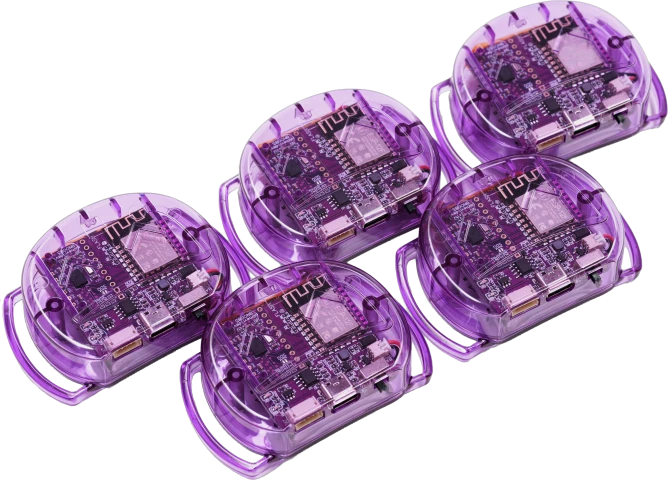
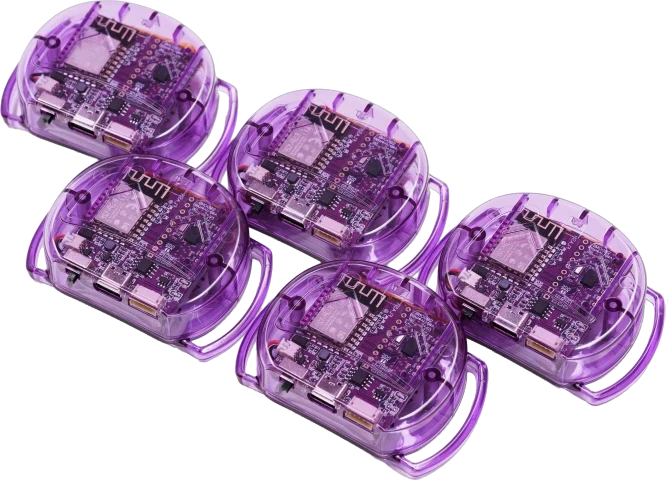
feat: revised design
thanks spazz - we dont talk about mobile still though

diff --git a/src/routes/index.tsx b/src/routes/index.tsx
@@ -17,6 +17,7 @@ import { DonwloadIcon } from "~/components/commons/icons/DownloadIcon";
 import { Typography } from "~/components/commons/Typography";
 import { DownloadSection } from "~/components/home/DownloadSection";
 import { QASection } from "~/components/home/QASection";
+import { TrackersSection } from "~/components/home/TrackersSection";
 import { VideoSection } from "~/components/home/VideoSection";
 import { Section } from "~/components/Section";
 import { MainLayout } from "~/layouts/MainLayout";
@@ -102,88 +103,132 @@ export default function HomePage(props: ParentProps) {
       />
       <Section>
         <div class="flex flex-col h-150 sm:h-220 justify-between items-center my-8 relative">
-          <Typography
-            variant="main-title"
-            tag="h1"
-            key="home.hero.description"
-            textAlign="text-center"
-            class="2xl:max-w-[90%]"
-          />
-
-          {/* <Section>
-            <TrackersSection></TrackersSection>
-          </Section> */}
-
-          <div class="flex flex-col justify-between items-center">
-            {/* sidebar */}
-            <div class="hidden sm:flex flex-col gap-4 absolute left-6 top-1/2 -translate-y-1/2 z-20">
-              <div
-                role="button"
-                tabIndex={0}
-                class="flex flex-col items-center gap-2 cursor-pointer select-none p-4 bg-background-60/80 border border-background-30 rounded-lg hover:scale-105 transition-transform"
-                onClick={() => {
-                  setTracker("og");
-                }}
+          {/* grids-col-3 instead */}
+          {/* <div class="flex flex-row justify-between items-center w-full gap-4 "> */}
+          <div class="grid md:grid-cols-3 grid-cols-1 w-full gap-4">
+            <div class="group rounded-2xl flex flex-col overflow-clip items-center gap-2 sm:gap-4 justify-between bg-background-60/40 border backdrop-blur-[9px] border-background-30/80">
+              <A
+                class="px-12 pt-8 flex flex-col items-center w-full"
+                href="https://www.crowdsupply.com/slimevr/slimevr-butterfly-trackers"
               >
-                <img
-                  src="/images/og_slime.webp"
-                  loading="lazy"
-                  class="w-24 h-24 object-contain"
-                  alt="OG Slime"
-                />
-                <Typography key="home.hero.og-slime" tag="p"></Typography>
-                <Typography key="home.hero.price" tag="p"></Typography>
-              </div>
-
-              <div
-                role="button"
-                tabIndex={0}
-                class="flex flex-col items-center gap-2 cursor-pointer select-none p-4 bg-background-60/80 border border-background-30 rounded-lg hover:scale-105 transition-transform"
-                onClick={() => {
-                  setTracker("butterfly");
-                }}
-              >
-                <img
-                  src="/images/butterfly_dock.webp"
-                  loading="lazy"
-                  class="w-24 h-24 object-contain"
-                  alt="Butterfly Tracker"
-                />
                 <Typography
+                  tag="h1"
+                  textAlign="text-center"
                   key="home.hero.butterfly-slime"
-                  tag="p"
+                  class="text-[2.25rem] font-bold"
                 ></Typography>
+                <div class="relative h-30 md:h-40 w-full flex justify-center">
+                  <img
+                    src="/images/purple_glow.webp"
+                    loading="lazy"
+                    class="absolute object-contain h-full scale-200 blur-2xl pointer-events-none"
+                  ></img>
+                  <img
+                    src="/images/tracker_card_border.webp"
+                    loading="lazy"
+                    class="absolute object-contain h-full -top-5 scale-[90%] group-hover:rotate-1 transition-transform duration-500 pointer-events-none"
+                  ></img>
+                  <img
+                    src="/images/butterfly_dock.webp"
+                    loading="lazy"
+                    class="absolute object-contain h-full blur-[3px] group-hover:-rotate-3 transition-transform pointer-events-none"
+                  ></img>
+                  <img
+                    src="/images/butterfly_dock.webp"
+                    loading="lazy"
+                    class="absolute object-contain h-full group-hover:-rotate-3 transition-transform pointer-events-none"
+                  ></img>
+                </div>
                 <Typography
                   key="home.hero.price-butterfly"
                   tag="p"
+                  class="text-[2rem] font-bold"
                 ></Typography>
+              </A>
+              <div class="w-full px-8 pb-8">
+                <ArrowButton
+                  variant="primary"
+                  prefixIcon={<CartIcon size={40}></CartIcon>}
+                  href="https://www.crowdsupply.com/slimevr/slimevr-butterfly-trackers"
+                >
+                  <div class="flex flex-col flex-wrap relative justify-center pb-2">
+                    <Typography
+                      variant="section-title"
+                      tag="span"
+                      whitespace="whitespace-nowrap"
+                      key="home.hero.preorder-btn"
+                    />
+                    <CrowdSupplyIcon size={180}></CrowdSupplyIcon>
+                  </div>
+                </ArrowButton>
               </div>
             </div>
-
-            <div class="flex sm:hidden flex-row gap-4 w-full justify-center items-center">
-              <div class="flex flex-col items-center gap-2 p-2">
-                <img
-                  src="/images/og_slime.webp"
-                  loading="lazy"
-                  class="w-20 h-20 object-contain"
-                  alt="OG Slime"
-                />
-                <Typography key="home.hero.price" tag="p"></Typography>
-              </div>
-              <div class="flex flex-col items-center gap-2 p-2">
-                <img
-                  src="/images/butterfly_dock.webp"
-                  loading="lazy"
-                  class="w-20 h-20 object-contain"
-                  alt="Butterfly Tracker"
-                />
+            <Typography
+              tag="h1"
+              key="home.hero.description"
+              textAlign="text-center"
+              class="text-[2.5rem] font-bold self-start"
+            />
+            <div class="group rounded-2xl flex flex-col overflow-clip items-center gap-2 sm:gap-4 justify-between bg-background-60/40 border backdrop-blur-[9px] border-background-30/80">
+              <A
+                class="px-8 pt-8 flex flex-col items-center w-full"
+                href="https://www.crowdsupply.com/slimevr/slimevr-full-body-tracker"
+              >
                 <Typography
-                  key="home.hero.price-butterfly"
-                  tag="p"
+                  tag="h1"
+                  textAlign="text-center"
+                  key="home.hero.og-slime"
+                  class="text-[2.25rem] font-bold"
                 ></Typography>
+                <div class="relative h-30 md:h-40 w-full flex justify-center">
+                  <img
+                    src="/images/purple_glow.webp"
+                    loading="lazy"
+                    class="absolute object-contain h-full scale-200 blur-2xl pointer-events-none"
+                  ></img>
+                  <img
+                    src="/images/tracker_card_border.webp"
+                    loading="lazy"
+                    class="absolute object-contain h-full -top-5 scale-[90%] group-hover:rotate-1 transition-transform duration-500 pointer-events-none"
+                  ></img>
+                  <img
+                    src="/images/og_slime.webp"
+                    loading="lazy"
+                    class="absolute object-contain h-full blur-[3px] group-hover:-rotate-3 transition-transform pointer-events-none"
+                  ></img>
+                  <img
+                    src="/images/og_slime.webp"
+                    loading="lazy"
+                    class="absolute object-contain h-full group-hover:-rotate-3 transition-transform pointer-events-none"
+                  ></img>
+                </div>
+                <Typography
+                  key="home.hero.price"
+                  tag="h1"
+                  class="text-[2rem] font-bold"
+                ></Typography>
+              </A>
+              <div class="w-full px-8 pb-8">
+                <ArrowButton
+                  variant="primary"
+                  prefixIcon={<CartIcon size={40}></CartIcon>}
+                  href="https://www.crowdsupply.com/slimevr/slimevr-full-body-tracker"
+                >
+                  <div class="flex flex-col flex-wrap relative justify-center pb-2">
+                    <Typography
+                      variant="section-title"
+                      tag="span"
+                      whitespace="whitespace-nowrap"
+                      key="home.hero.order-btn"
+                    />
+                    <CrowdSupplyIcon size={180}></CrowdSupplyIcon>
+                  </div>
+                </ArrowButton>
               </div>
             </div>
+          </div>
 
+          <div class="flex flex-col justify-between items-center pointer-events-none">
             {/* nighty */}
             <div class="absolute w-full h-full top-0 left-0">
               <img
@@ -204,37 +249,18 @@ export default function HomePage(props: ParentProps) {
             </div>
 
             {/* tracker */}
-            <div class="absolute mid:top-32 sm:top-48 top-36 sm:translate-x-10 w-96 sm:w-120 2xl:w-140 h-72 md:h-96 flex justify-center">
+            <div class="absolute mid:top-18 sm:top-32 top-12 w-100 sm:w-120 2xl:w-140">
               <img
                 src="/images/purple_glow.webp"
                 loading="lazy"
-                class="absolute object-contain h-full scale-200 blur-2xl pointer-events-none"
+                class="w-full scale-120 absolute top-0 -z-10 "
               ></img>
-              <Show when={tracker() === "og"}>
-                <img
-                  src="/images/og_slime.webp"
-                  loading="lazy"
-                  class="absolute object-contain h-full blur-[3px] animate-rotated pointer-events-none"
-                ></img>
-                <img
-                  src="/images/og_slime.webp"
-                  loading="lazy"
-                  class="absolute object-contain h-full animate-rotated"
-                ></img>
-              </Show>
-              <Show when={tracker() === "butterfly"}>
-                <img
-                  src="/images/butterfly_dock.webp"
-                  loading="lazy"
-                  class="absolute object-contain h-full blur-[3px] animate-rotated pointer-events-none"
-                ></img>
-                <img
-                  src="/images/butterfly_dock.webp"
-                  loading="lazy"
-                  class="absolute object-contain h-full animate-rotated"
-                ></img>
-              </Show>
-              <div class="absolute w-full h-full top-20 left-0 brightness-90 animate-stars2">
+              <img
+                src="/images/butterfly_tracker.webp"
+                loading="lazy"
+                class="w-full animate-rotated"
+              ></img>
+              <div class="absolute w-full h-full top-20 left-0 brightness-90 animate-stars2 -z-10">
                 <img
                   src="/images/stars.webp"
                   loading="lazy"
@@ -245,35 +271,6 @@ export default function HomePage(props: ParentProps) {
           </div>
 
           <div class="w-full flex flex-col gap-4 items-center">
-            <div class="w-full flex justify-center">
-              <div class="w-full md:w-1/2">
-                <ArrowButton
-                  variant="primary"
-                  prefixIcon={<CartIcon size={40}></CartIcon>}
-                  href="https://www.crowdsupply.com/slimevr/slimevr-full-body-tracker"
-                >
-                  <div class="flex flex-col flex-wrap relative justify-center pb-2">
-                    {tracker() === "og" ? (
-                      <Typography
-                        variant="section-title"
-                        tag="span"
-                        whitespace="whitespace-nowrap"
-                        key="home.hero.buy-slime.order"
-                      />
-                    ) : (
-                      <Typography
-                        variant="section-title"
-                        tag="span"
-                        whitespace="whitespace-nowrap"
-                        key="home.hero.buy-slime.preorder"
-                      />
-                    )}
-                    <CrowdSupplyIcon size={180}></CrowdSupplyIcon>
-                  </div>
-                </ArrowButton>
-              </div>
-            </div>
-
             <div class="grid md:grid-cols-2 grid-cols-1 w-full md:gap-10 gap-4">
               <div>
                 <ArrowButton

diff --git a/src/components/home/TrackersSection.tsx b/src/components/home/TrackersSection.tsx
@@ -32,12 +32,12 @@ export const TrackersSection = () => {
               <img
                 src="/images/butterfly_dock.webp"
                 loading="lazy"
-                class="absolute object-contain h-full blur-[3px] scale-[140%] group-hover:-rotate-3 transition-transform pointer-events-none"
+                class="absolute object-contain h-full blur-[3px] group-hover:-rotate-3 transition-transform pointer-events-none"
               ></img>
               <img
                 src="/images/butterfly_dock.webp"
                 loading="lazy"
-                class="absolute object-contain h-full scale-[140%] group-hover:-rotate-3 transition-transform pointer-events-none"
+                class="absolute object-contain h-full group-hover:-rotate-3 transition-transform pointer-events-none"
               ></img>
             </div>
             <Typography
@@ -89,12 +89,12 @@ export const TrackersSection = () => {
               <img
                 src="/images/og_slime.webp"
                 loading="lazy"
-                class="absolute object-contain h-full blur-[3px] sm:scale-[100%] group-hover:-rotate-3 transition-transform pointer-events-none"
+                class="absolute object-contain h-full blur-[3px] group-hover:-rotate-3 transition-transform pointer-events-none"
               ></img>
               <img
                 src="/images/og_slime.webp"
                 loading="lazy"
-                class="absolute object-contain h-full scale-[100%] group-hover:-rotate-3 transition-transform pointer-events-none"
+                class="absolute object-contain h-full group-hover:-rotate-3 transition-transform pointer-events-none"
               ></img>
             </div>
             <Typography